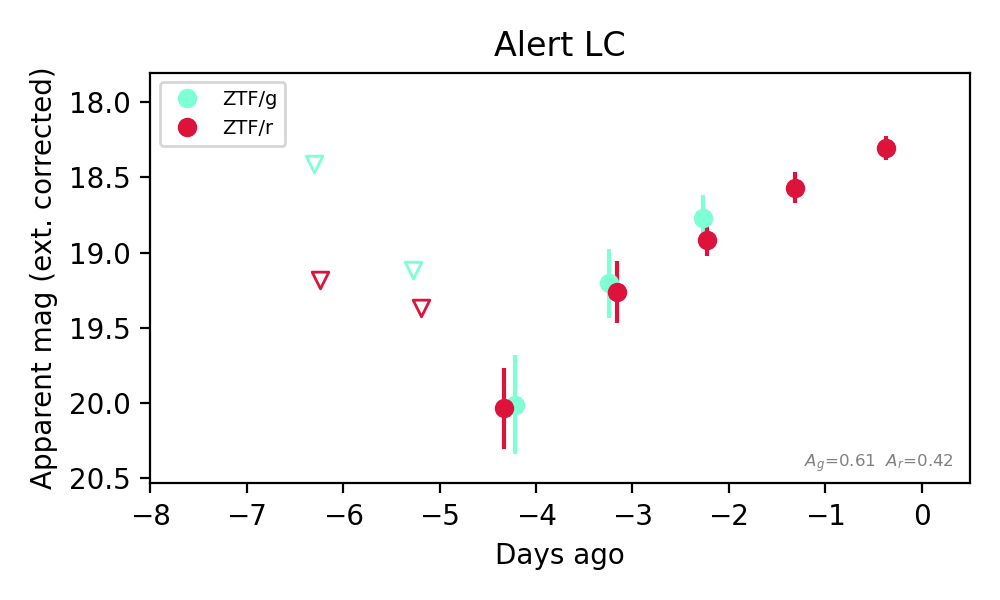
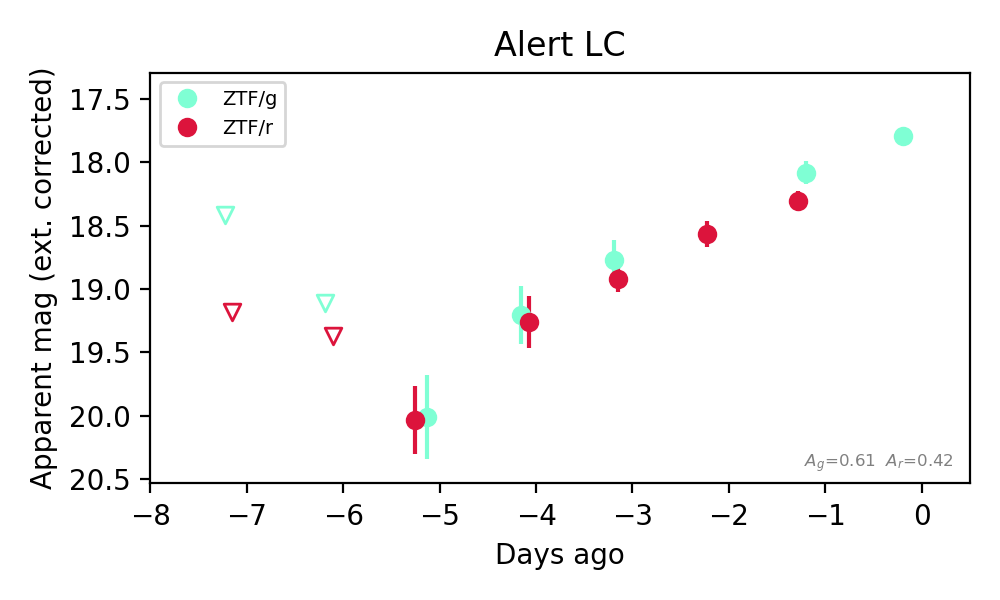
Update HTML from cron job on Fri Sep  4 09:02:23 AM EDT 2026

diff --git a/html/20260904_fastcand.html b/html/20260904_fastcand.html
@@ -1,1 +1,1 @@
-<!doctype html><html><head><title>SOURCE MARSHAL</title><style>                  * {                     box-sizing: border-box;                  }                /* Create two equal columns that floats next to each other */                .column {                         float: left;                         width: 50%;                         padding: 10px;                         #height: 220px; /* Should be removed. Only for demonstration */                }                /* Clear floats after the columns */                .row:after {                        content: "";                        display: table;                        clear: both;                }                /* Rounded corner definition */                #rcorners2 {                    border-radius: 15px;                    border: 2px solid #73AD21;                    padding: 15px;                     width: 80%;                }                table, th, td {                    border: 1px solid black;                    border-collapse: collapse;                }                th, td {                    padding: 5px;                }                th {                    text-align: right;                }                .boxed {                    width: 300px;                    border: 3px outset green;                    text-align: center;                    font-size: 20px;                    margin: 10px;                }                 </style></head><body><font size="5" color="green">Candidate List 20260904</font></br><font size="3" color="green">Last night &mdash; ZTF: 1,941 passed basic cuts (154 young) &middot; LSST: 0 passed basic cuts (0 young)</font></br></br><a href=20260903_fastcand.html target="_blank"><font size="3" color="green">Previous Day</font></a>&nbsp;&nbsp;&nbsp;&nbsp;<a href=20260905_fastcand.html target="_blank"><font size="3" color="green">Next Day</font></a>&nbsp;&nbsp;&nbsp;&nbsp;<br><br><font size="4" color="green"><a href="#sec1">Section 1: New Sources (age<1d)</a></font>&nbsp;&nbsp;&nbsp;&nbsp;<font size="4" color="green"><a href="#sec2">Section 2: Old (1-5d) sources observed last night</a></font></br><font size="1" color="white">placeholder</font></br><hr style="width:50%;text-align:left;margin-left:0"><br><div id="sec1"></div><div class="boxed">Section 1: New Afterglow/FBOT Cands Last Night (0)</div><br><br><br><div id="sec2"></div><div class="boxed">Section 2: Older Sources Observed Last Night (0)</div><br>
+<!doctype html><html><head><title>SOURCE MARSHAL</title><style>                  * {                     box-sizing: border-box;                  }                /* Create two equal columns that floats next to each other */                .column {                         float: left;                         width: 50%;                         padding: 10px;                         #height: 220px; /* Should be removed. Only for demonstration */                }                /* Clear floats after the columns */                .row:after {                        content: "";                        display: table;                        clear: both;                }                /* Rounded corner definition */                #rcorners2 {                    border-radius: 15px;                    border: 2px solid #73AD21;                    padding: 15px;                     width: 80%;                }                table, th, td {                    border: 1px solid black;                    border-collapse: collapse;                }                th, td {                    padding: 5px;                }                th {                    text-align: right;                }                .boxed {                    width: 300px;                    border: 3px outset green;                    text-align: center;                    font-size: 20px;                    margin: 10px;                }                 </style></head><body><font size="5" color="green">Candidate List 20260904</font></br><font size="3" color="green">Last night &mdash; ZTF: 2,378 passed basic cuts (169 young) &middot; LSST: 0 passed basic cuts (0 young)</font></br></br><a href=20260903_fastcand.html target="_blank"><font size="3" color="green">Previous Day</font></a>&nbsp;&nbsp;&nbsp;&nbsp;<a href=20260905_fastcand.html target="_blank"><font size="3" color="green">Next Day</font></a>&nbsp;&nbsp;&nbsp;&nbsp;<br><br><font size="4" color="green"><a href="#sec1">Section 1: New Sources (age<1d)</a></font>&nbsp;&nbsp;&nbsp;&nbsp;<font size="4" color="green"><a href="#sec2">Section 2: Old (1-5d) sources observed last night</a></font></br><font size="1" color="white">placeholder</font></br><hr style="width:50%;text-align:left;margin-left:0"><br><div id="sec1"></div><div class="boxed">Section 1: New Afterglow/FBOT Cands Last Night (0)</div><br><br><br><div id="sec2"></div><div class="boxed">Section 2: Older Sources Observed Last Night (3)</div><div id="ZTF26abramlb"></div>0. <a href="#ZTF26abramlb"><b><font size="3">[ZTF] ZTF26abramlb (FBOT?)</font></b></a> <span style="color:#a0522d">[NED transient: PSO J011.2292+41.5531 (V*, 8.5&#8243;) &mdash; reported, not trusted]</span>&nbsp;&nbsp;&nbsp;&nbsp;<a href=#top>[Back to Top]</a>&nbsp;&nbsp;&nbsp;&nbsp;<a href=./ZTF26abramlb_announcement.txt>[Share]</a>&nbsp;&nbsp;&nbsp;&nbsp;<a href=./ZTF26abramlb_swifttoo.txt>[Trigger Swift]</a></br>&nbsp;&nbsp;&nbsp;&nbsp;[<a href="https://fritz.science/brokers?objectId=ZTF26abramlb&survey=ZTF&ra=11.2260742&dec=41.5529251&radius=3" target="_blank">Fritz Alert</a>]&nbsp;&nbsp;&nbsp;&nbsp;[<a href="https://fritz.science/source/ZTF26abramlb" target="_blank">Fritz Source</a>]&nbsp;&nbsp;&nbsp;&nbsp;[<a href="https://lasair-ztf.lsst.ac.uk/objects/ZTF26abramlb/" target="_blank">Lasair</a>]</br>RA, Dec: 11.22607, 41.55293&nbsp;&nbsp;&nbsp;&nbsp; 0h44m54.26s, 41d33m10.53s</br>Galactic (l, b): 121.62, -21.30218&nbsp;&nbsp;&nbsp;&nbsp;ext(g-r) = 0.488</br></br><img src="./ZTF26abramlb_triplet.png" height="200"><a href = http://ps1images.stsci.edu/cgi-bin/ps1cutouts?pos=11.226074+41.552925&filter=color&filter=g&filter=r&filter=i&filter=z&filter=y&filetypes=stack&auxiliary=data&size=240&output_size=240&verbose=0&autoscale=99.500000><img src="./ZTF26abramlb_ps1.png" height="200"></a><a href = http://legacysurvey.org/viewer?ra=11.226074&dec=+41.552925&zoom=16&layer=ls-dr10><img src="ZTF26abramlb_ls.png" height="200"></a></br><br><br>TESS: Sectors [17 57 84]<br><br><br><br><br><b>PS1: 1 source in 3 arcsec</b>&nbsp;&nbsp;&nbsp;&nbsp;Closest: d = 1.09 arcsec&nbsp;&nbsp;&nbsp;&nbsp;photoz=0.16+/-0.03&nbsp;&nbsp;&nbsp;&nbsp;<b>peak abs mag = -25.58</b><br>LegacySurvey: 0 sources in 3 arcsec</br><br><img src="ZTF26abramlb_alert_lc.png" height="300"><br>Extinction-corrected gr color:<br>From alerts: -0.46 +/- 0.03 mag<br><br>Rise Rate:<br>g: 0.41 mag/day <br>r: 0.64 mag/day <br><br>Fade Rate:<br><br><br><div id="ZTF26abrdqpa"></div>1. <a href="#ZTF26abrmdnv"><b><font size="3">[ZTF] ZTF26abrmdnv (FBOT?)</font></b></a>&nbsp;&nbsp;&nbsp;&nbsp;<a href=#top>[Back to Top]</a>&nbsp;&nbsp;&nbsp;&nbsp;<a href=./ZTF26abrmdnv_announcement.txt>[Share]</a>&nbsp;&nbsp;&nbsp;&nbsp;<a href=./ZTF26abrmdnv_swifttoo.txt>[Trigger Swift]</a></br>&nbsp;&nbsp;&nbsp;&nbsp;[<a href="https://fritz.science/brokers?objectId=ZTF26abrmdnv&survey=ZTF&ra=357.1565981&dec=50.423146349999996&radius=3" target="_blank">Fritz Alert</a>]&nbsp;&nbsp;&nbsp;&nbsp;[<a href="https://fritz.science/source/ZTF26abrmdnv" target="_blank">Fritz Source</a>]&nbsp;&nbsp;&nbsp;&nbsp;[<a href="https://lasair-ztf.lsst.ac.uk/objects/ZTF26abrmdnv/" target="_blank">Lasair</a>]</br>RA, Dec: 357.1566, 50.42315&nbsp;&nbsp;&nbsp;&nbsp;23h48m37.58s, 50d25m23.33s</br>Galactic (l, b): 112.80744, -11.20976&nbsp;&nbsp;&nbsp;&nbsp;ext(g-r) = 0.196</br></br><img src="./ZTF26abrmdnv_triplet.png" height="200"><a href = http://ps1images.stsci.edu/cgi-bin/ps1cutouts?pos=357.156598+50.423146&filter=color&filter=g&filter=r&filter=i&filter=z&filter=y&filetypes=stack&auxiliary=data&size=240&output_size=240&verbose=0&autoscale=99.500000><img src="./ZTF26abrmdnv_ps1.png" height="200"></a><a href = http://legacysurvey.org/viewer?ra=357.156598&dec=+50.423146&zoom=16&layer=ls-dr10><img src="ZTF26abrmdnv_ls.png" height="200"></a></br><br><br>TESS: Sectors [17 24 57 84]<br><br><br><br><br><b>PS1: 1 source in 3 arcsec</b>&nbsp;&nbsp;&nbsp;&nbsp;Closest: d = 7.58 arcsec&nbsp;&nbsp;&nbsp;&nbsp;photoz=0.09+/-0.02&nbsp;&nbsp;&nbsp;&nbsp;<b>peak abs mag = -20.37</b><br>LegacySurvey: 0 sources in 3 arcsec</br><br><img src="ZTF26abrmdnv_alert_lc.png" height="300"><br>Extinction-corrected gr color:<br>From alerts: -0.22 +/- 0.12 mag<br><br>Rise Rate:<br>g: 0.37 mag/day <br>r: 0.37 mag/day <br><br>Fade Rate:<br><br><br><div id="ZTF26abqztdc"></div>2. <a href="#ZTF26abrpjdl"><b><font size="3">[ZTF] ZTF26abrpjdl (FBOT?)</font></b></a>&nbsp;&nbsp;&nbsp;&nbsp;<a href=#top>[Back to Top]</a>&nbsp;&nbsp;&nbsp;&nbsp;<a href=./ZTF26abrpjdl_announcement.txt>[Share]</a>&nbsp;&nbsp;&nbsp;&nbsp;<a href=./ZTF26abrpjdl_swifttoo.txt>[Trigger Swift]</a></br>&nbsp;&nbsp;&nbsp;&nbsp;[<a href="https://fritz.science/brokers?objectId=ZTF26abrpjdl&survey=ZTF&ra=320.11244&dec=2.1782153&radius=3" target="_blank">Fritz Alert</a>]&nbsp;&nbsp;&nbsp;&nbsp;[<a href="https://fritz.science/source/ZTF26abrpjdl" target="_blank">Fritz Source</a>]&nbsp;&nbsp;&nbsp;&nbsp;[<a href="https://lasair-ztf.lsst.ac.uk/objects/ZTF26abrpjdl/" target="_blank">Lasair</a>]</br>RA, Dec: 320.11244, 2.17822&nbsp;&nbsp;&nbsp;&nbsp;21h20m26.99s,  2d10m41.58s</br>Galactic (l, b): 54.20305, -31.40075&nbsp;&nbsp;&nbsp;&nbsp;ext(g-r) = 0.064</br></br><img src="./ZTF26abrpjdl_triplet.png" height="200"><a href = http://ps1images.stsci.edu/cgi-bin/ps1cutouts?pos=320.112440+2.178215&filter=color&filter=g&filter=r&filter=i&filter=z&filter=y&filetypes=stack&auxiliary=data&size=240&output_size=240&verbose=0&autoscale=99.500000><img src="./ZTF26abrpjdl_ps1.png" height="200"></a><a href = http://legacysurvey.org/viewer?ra=320.112440&dec=+2.178215&zoom=16&layer=ls-dr10><img src="ZTF26abrpjdl_ls.png" height="200"></a></br><br><br>TESS: Sectors [55 82]<br>SDSS (<15 kpc):Found SDSS phot-z: z=0.10; <b>peak abs mag = -20.04</b><br><br><br><br>PS1: 0 sources in 3 arcsec</br><br><b>LegacySurvey: 1 sources in 3 arcsec</b>&nbsp;&nbsp;&nbsp;&nbsp;Closest: d = 2.83 arcsec, 322.0 deg (east of north)</br>&nbsp;&nbsp;&nbsp;&nbsp;photoz=0.07 (68&#37; bounds 0.05, 0.11),                         type=REX&nbsp;&nbsp;&nbsp;&nbsp;<b>peak abs mag (ext. corrected) = -19.38 (68&#37; bounds -18.34, -20.23)</b><br><img src="ZTF26abrpjdl_alert_lc.png" height="300"><br>Extinction-corrected gr color:<br>From alerts: -0.3 +/- 0.17 mag<br>Extinction-corrected gi color:<br>From alerts: -0.52 +/- 0.11 mag<br>Extinction-corrected ri color:<br>From alerts: -0.14 +/- 0.17 mag<br><b> Consistent with synchrotron, g-r>0!</b><br>Rise Rate:<br>g: 0.39 mag/day <br>r: 0.43 mag/day <br>i: 0.4 mag/day <br><br>Fade Rate:<br><br><br><br>
